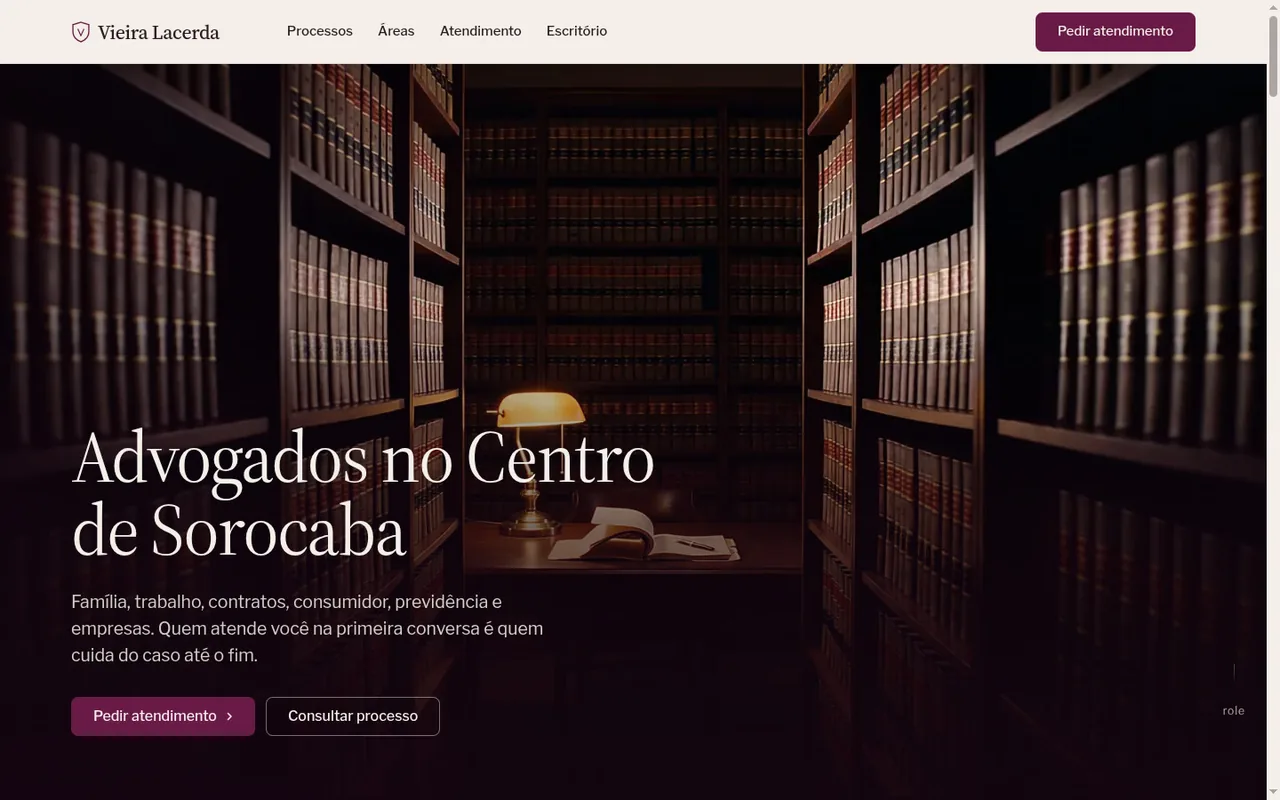
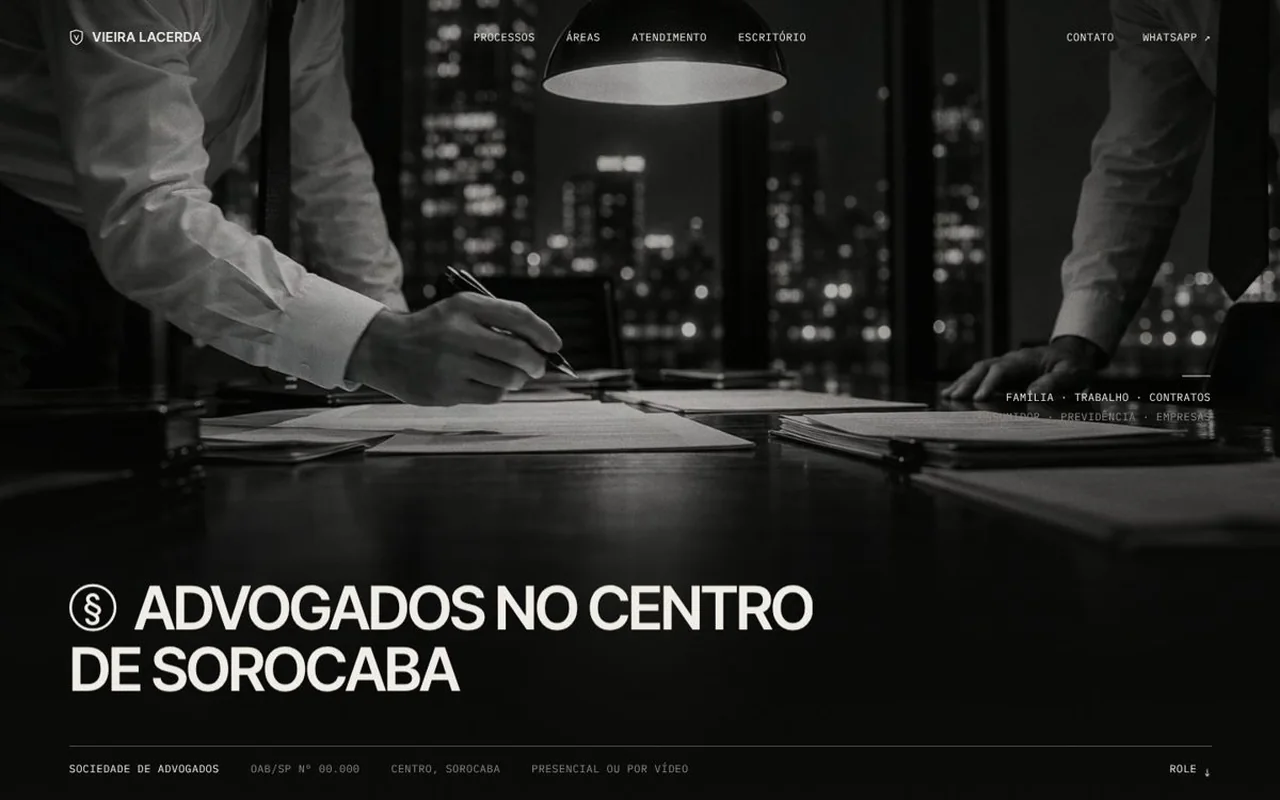
Site para advocacia: nova tela (layout Cláusula) e link da Vercel
Claude-Session: https://claude.ai/code/session_01YKWXpt4FZ7Ya6SrxEE5V8E

diff --git a/src/sections/projetos.html b/src/sections/projetos.html
@@ -61,9 +61,9 @@
           </span>
         </a>
       </li>
-      <li class="projeto" data-tipo="sites" data-busca="advocacia modelo site escritório cnj datajud oab">
-        <a class="projeto__link" href="https://advocacia-modelo-eduardo.netlify.app" target="_blank" rel="noopener">
-          <span class="projeto__img" data-camada="foto"><img src="/img/proj-advocacia.webp" width="1280" height="800" alt="Abertura do modelo de site para advocacia, com a biblioteca do escritório" loading="lazy" decoding="async" /></span>
+      <li class="projeto" data-tipo="sites" data-busca="advocacia modelo site escritório cnj datajud oab cláusula vercel">
+        <a class="projeto__link" href="https://advocacia-modelo-eduardo.vercel.app" target="_blank" rel="noopener">
+          <span class="projeto__img" data-camada="foto"><img src="/img/proj-advocacia.webp" width="1280" height="800" alt="Abertura do site para advocacia em preto e branco: Advogados no Centro de Sorocaba" loading="lazy" decoding="async" /></span>
           <span class="projeto__etiqueta" data-camada="texto">Site revendável</span>
           <span class="projeto__pe" data-camada="bloco">
             <strong class="projeto__num" data-camada="texto">04</strong>
